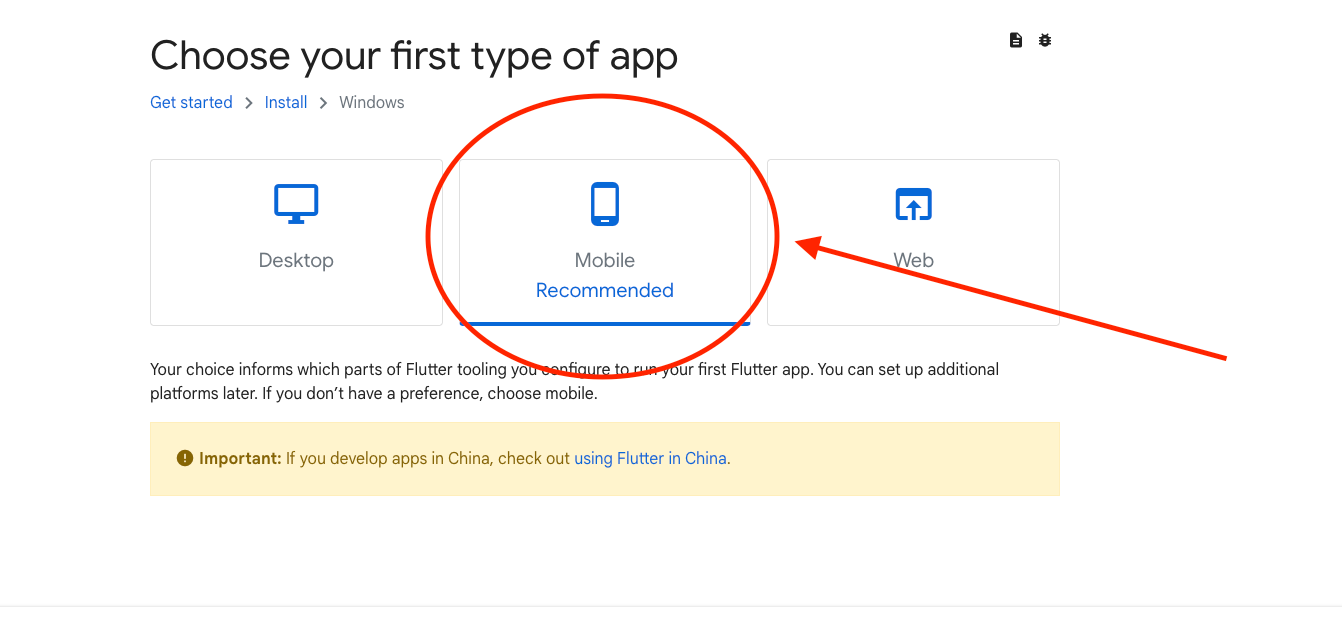
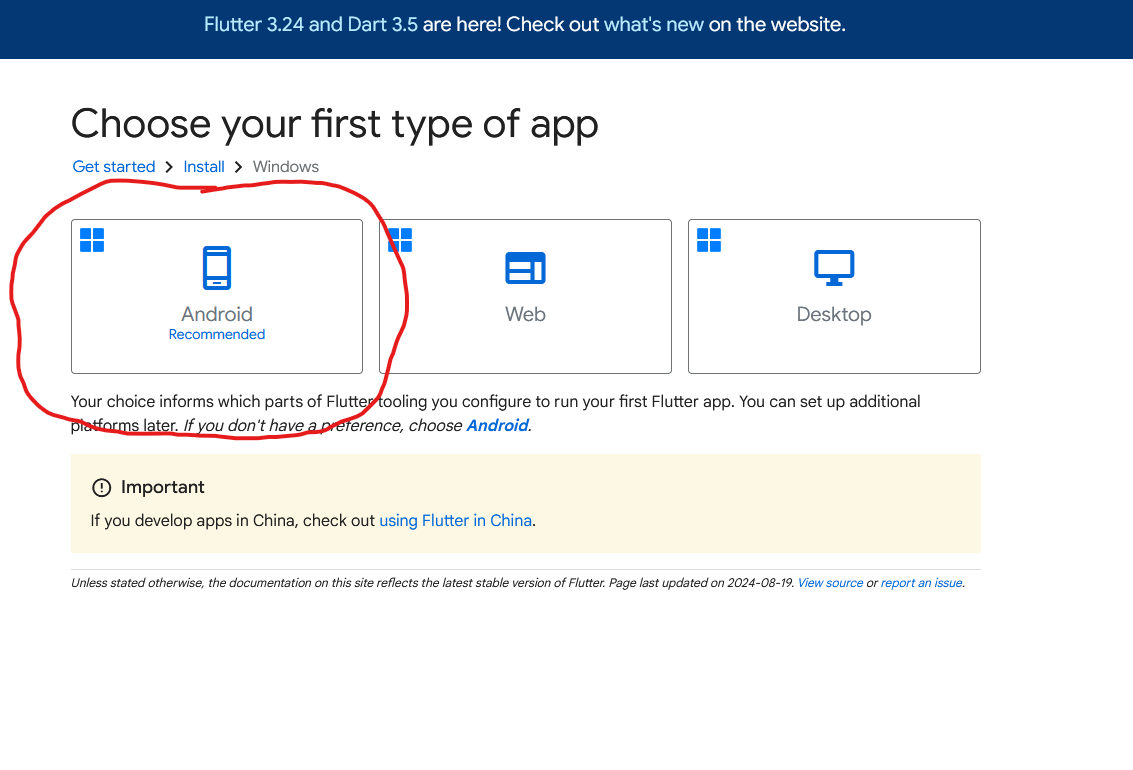
starting week 1

diff --git a/src/Week1_Introduction/1_InstallFlutter.html b/src/Week1_Introduction/1_InstallFlutter.html
@@ -19,7 +19,7 @@
 <p>Once you have installed Android Studio, you must then install the Flutter SDK after:
 <ol >
     <li>Go to <a href="https://docs.flutter.dev/get-started/install" target="_blank">https://docs.flutter.dev/get-started/install</a></li>
-    <li>Choose your operating system version, and then select "Mobile" for your first type of app.<img src="images/chooseMobile.png"> </li>
+    <li>Choose your operating system version, and then select "Android" for your first type of app.<img src="images/chooseMobile.png"> </li>
     <li>Look down the page and download the zip file of the Flutter SDK to your computer.
         <img src="images/downloadSDK.png">
         Extract the contents and then move the "flutter" folder somewhere on
@@ -53,8 +53,8 @@ also uses a new feature called <b>Hot-Swapping</b> of code, meaning that you don
     <li>In Android Studio, select "File" -&gt; "New" -&gt; "New Flutter Project".  Make sure to select "Flutter" on the left side, and select the
         directory where you unzipped the Flutter SDK.<img src="images/createProject.png"
                                                           alt="Create project" /></li>
-    <li>Give your project the name "test_flutter". For the Platforms, make
-        sure everything is selected. <img src="images/createProjectAllPlatforms.png" alt="Create project" /></li>
+    <li>Give your project the name "my_flutter_labs". For the Platforms, make
+        sure everything is selected. <img src="images/createProjectAllPlatform.png" alt="Create project" /></li>
 </ol>
 <p>This will take some time to create the project. Once it has finished, you should see this at the top of your screen:
 <img src="images/platformChoice.png" width="1000">
@@ -65,9 +65,10 @@ If you open the menu, you can see what platforms you can run your app on.
     <li>From the compile target, select "Windows" and then Debug.
         However, for this to work, you must have Visual Studio installed. You must then also have the Desktop C++ tools installed in Visual Studio.
         You can get the free Community Edition from here:
-        <a href="https://visualstudio.microsoft.com/vs/community/" target="_blank">https://visualstudio.microsoft.com/vs/community/</a></li>
+        <a href="https://visualstudio.microsoft.com/vs/community/" target="_blank">https://visualstudio.microsoft.com/vs/community/</a>
+    <img src="images/desktopCPP.png" width="1000"> </li>
 
-    <img src="images/compileWindows.png" alt="Compile Windows" />
+    <img src="images/compileWindows.png" alt="Compile Windows" /><p>
         You should eventually see a Windows program running. <img src="images/windowsProgram.png" alt="Windows Program" />
     <br>
 
